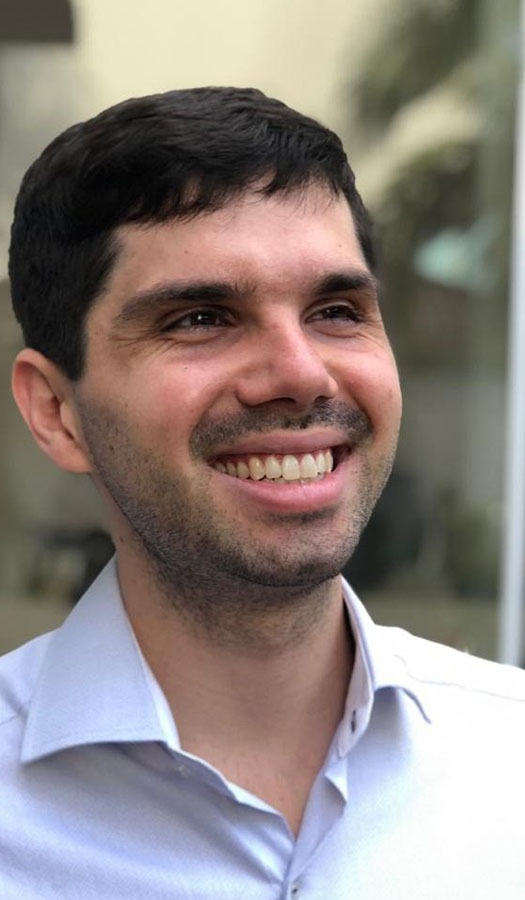
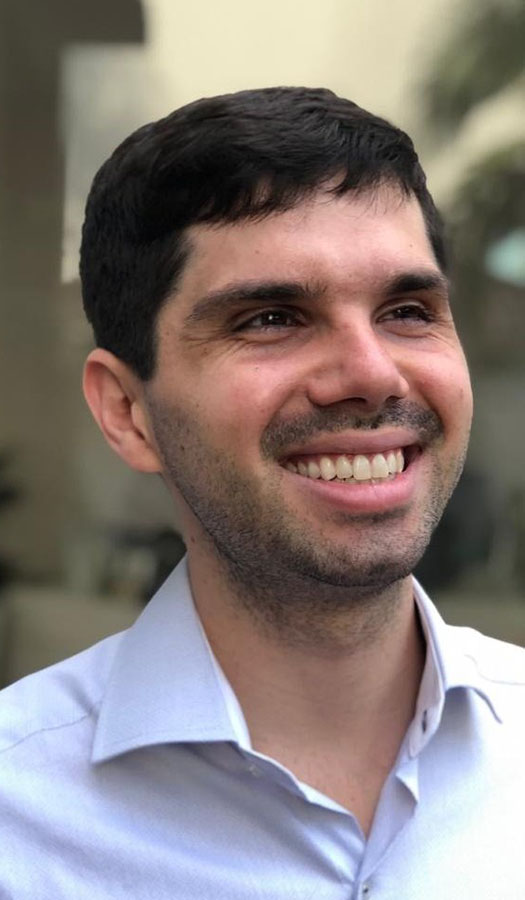
Content update and profile picture

diff --git a/index.html b/index.html
@@ -6,7 +6,7 @@
 -->
 <html>
 	<head>
-		<title>Ethereal by HTML5 UP</title>
+		<title>Jeferson Barboza Braun - Facilitador de Barras de Access®</title>
 		<meta charset="utf-8" />
 		<meta name="viewport" content="width=device-width, initial-scale=1, user-scalable=no" />
 		<link rel="stylesheet" href="assets/css/main.css" />
@@ -40,11 +40,11 @@
 							<section class="panel spotlight large right" id="first">
 								<div class="content span-5">
 									<h2 class="major">Barras de Access<sup>®</sup></h2>
-									<p>Definitivamente um novo elemento na sua lista de itens que te trazem paz e felicidade.</p>
+									<p>Definitivamente um novo item na sua lista de coisas que te trazem paz e felicidade.</p>
                                     <p>O que a maioria das pessoas fala após algumas sessões de Barras de Access® é <i>"minha vida está mais fácil"</i>.</p>
                                     <p>As Barras são aplicadas com o toque em pontos específicos da cabeça.</p>
                                     <ul class="actions">
-                                        <li><a href="https://wa.me/555199040110?text=Ol%C3%A1,%20pode%20me%20passar%20mais%20informa%C3%A7%C3%B5es%20sobre%20as%20Barras%20de%20Access?" class="primary button">WhatsApp</a></li>
+                                        <li><a href="https://wa.me/555199040110?text=Ol%C3%A1,%20pode%20me%20passar%20mais%20informa%C3%A7%C3%B5es%20sobre%20as%20Barras%20de%20Access?" class="primary button" target="_blank">Agendar</a></li>
                                         <li><a href="#valores" class="button">Quanto custa?</a></li>
                                     </ul>
 								</div>
@@ -66,12 +66,12 @@
 							<section class="panel spotlight large left">
 								<div class="content span-5">
 									<h2 class="major">MTVSS e Processos Corporais</h2>
-									<p>MTVSS, memória celular e outros processos corporais de Access são ótimos para mudar diferentes aspectos do seu corpo.</p>
+									<p>MTVSS, memória celular, de-manifestção molecular e manifestação de-molecular são ótimos para mudar diferentes aspectos do seu corpo.</p>
                                     <p>São realizados apenas com a imposição das mãos nos locais do corpo que requerem mudança.</p>
                                     <p>Podem ser aplicados em lesões, dores e doenças para que as células voltem ao seu estado natural - que é a cura.</p>
                                     
                                     <ul class="actions">
-                                        <li><a href="https://wa.me/555199040110?text=Ol%C3%A1,%20pode%20me%20passar%20informa%C3%A7%C3%B5es%20sobre%20os%20processos%20corporais%20de%20Access?" class="primary button">WhatsApp</a></li>
+                                        <li><a href="https://wa.me/555199040110?text=Ol%C3%A1,%20pode%20me%20passar%20informa%C3%A7%C3%B5es%20sobre%20os%20processos%20corporais%20de%20Access?" class="primary button" target="_blank">Agendar</a></li>
                                         <li><a href="#valores" class="button">Quanto custa?</a></li>
                                     </ul>
                                 </div>
@@ -99,31 +99,27 @@
 											<table>
 												<tbody>
 													<tr>
-														<td>1 processo</td>
-														<td>Duração de 1 hora.</td>
+														<td>1 hora</td>
+														<td>Barras ou processos corporais</td>
                                                         <td><b>R$ 140,00</b></td>
 													</tr>
 													<tr>
-														<td>2 processos</td>
-														<td>Duração de 1 hora e meia.</td>
+														<td>1 hora e meia</td>
+														<td>Barras + processos corporais</td>
                                                         <td><b>R$ 180,00</b></td>
 													</tr>
 													<tr>
-														<td>2 processos</td>
-														<td>Duração de 2 horas.</td>
+														<td>2 horas</td>
+														<td>Barras + processos corporais</td>
                                                         <td><b>R$ 240,00</b></td>
-													</tr>
-													<tr>
-														<td>Até 14 anos</td>
-														<td>Duração entre 20 e 40 minutos.</td>
-                                                        <td><b>Consultar</b></td>
 													</tr>
 												</tbody>
                                             </table>
-                                            <p>Consulte descontos para pacotes com 3 sessões ou mais.</p>
+                                            <p><i>Para <b>crianças e adolescentes</b> de até 14 anos, consulte valores por Whats.</i><br />
+                                            <i>Consulte também descontos para <b>pacotes com 3 sessões</b> ou mais.</i></p>
                                             <ul class="actions">
-                                                <li><a href="https://wa.me/555199040110?text=Ol%C3%A1,%20pode%20me%20passar%20informa%C3%A7%C3%B5es%20sobre%20os%20processos%20corporais%20de%20Access?" class="primary button" target="_blank">Agendar</a></li>
-                                                <li><a href="#valores" class="button" target="_blank">Mais informações</a></li>
+                                                <li><a href="https://wa.me/555199040110?text=Ol%C3%A1,%20gostaria%20de%20agendar%20uma%20sess%C3%A3o." class="primary button" target="_blank">Agendar</a></li>
+                                                <li><a href="https://wa.me/555199040110?text=Ol%C3%A1,%20pode%20me%20passar%20informa%C3%A7%C3%B5es%20sobre%20as%20suas%20sess%C3%B5es%20e%20pacotes?" class="button" target="_blank">Mais informações</a></li>
                                             </ul>
 										</div>
                                         </div>
@@ -137,9 +133,8 @@
                                     <p>A Access está presente em 174 países.</p>
                                     <p>Com mais de 10 mil facilitadores no mundo todo, a Access Consciousness® possibilita mudanças em todos os aspectos da vida das pessoas, incluindo saúde, corpo, trabalho, dinheiro, sexo, relacionamentos, ansiedade e stress.</p>
                                     <p>O curso de Barras abre portas para possibilidades incríveis, e pode ser feito em um dia.</p>
-                                    <p>Que futuro você pode criar com a escolha que fizer hoje?</p>
                                     <ul class="actions">
-                                        <li><a href="https://wa.me/555199040110?text=Ol%C3%A1,%20pode%20me%20passar%20informa%C3%A7%C3%B5es%20sobre%20os%20processos%20corporais%20de%20Access?" class="button color5" target="_blank">Mais informações</a></li>
+                                        <li><a href="https://wa.me/555199040110?text=Ol%C3%A1,%20poderia%20me%20passar%20informa%C3%A7%C3%B5es%20sobre%20o%20curso%20de%20Barras%20de%20Access?" class="button color5" target="_blank">Mais informações</a></li>
                                     </ul>
                                 </div>
                                     <div class="image filtered tinted" data-position="top left">
@@ -152,15 +147,16 @@
 								<div class="inner columns divided">
                                     <div class="span-2-75">
                                         <h2 class="major">Contato</h2>
-                                        <p>Atualmente atendo em Vera Cruz, no Espaço Projeto de Vida.</p>
-                                        <p>Fica na rua Intendente Koelzer, nº 120.</p>
-                                        <p>Você também pode entrar em contato comigo pelo WhatsApp no número <b>(51) 9 9904-0110</b>.</p>
+                                        <p><b>Endereço para atendimentos</b><br /> Rua Intendente Koelzer, 120, centro de Vera Cruz / RS</p>
+                                        <p>Turmas para o curso de Barras são divulgadas no Facebook e Instagram. <b>Aulas individuais</b> também estão disponíveis.</p>
+                                        <p>WhatsApp<br /><b>(51) 9 9904-0110</b></p>
+                                        <p style="float: right;"><i>Jeferson Barboza Braun</i></p>
                                     </div>
 									<div class="span-2-75">
 										<ul class="contact-icons color1">
 											
-											<li class="icon brands fa-facebook-f"><a href="https://www.facebook.com/JefersonAccess/" target="_blank">facebook.com/JefersonAccess</a></li>
 											<li class="icon brands fa-instagram"><a href="https://www.instagram.com/jeferson_access/" target="_blank">@jeferson_access</a></li>
+                                            <li class="icon brands fa-facebook-f"><a href="https://www.facebook.com/JefersonAccess/" target="_blank">facebook.com/JefersonAccess</a></li>
                                             <!--<li class="icon brands fa-twitter"><a href="#">@untitled-tld</a></li>-->
 										</ul>
 									</div>
@@ -437,7 +433,7 @@ print 'It took ' + i + ' iterations to sort the deck.';</code></pre>
 							</section> -->
 
 						<!-- Copyright -->
-							<div class="copyright">&copy; Untitled. Design: <a href="https://html5up.net">HTML5 UP</a>.</div>
+							<div class="copyright">&copy; Jeferson Barboza Braun. Design: <a href="https://html5up.net">HTML5 UP</a>.</div>
 
 					</div>
 
